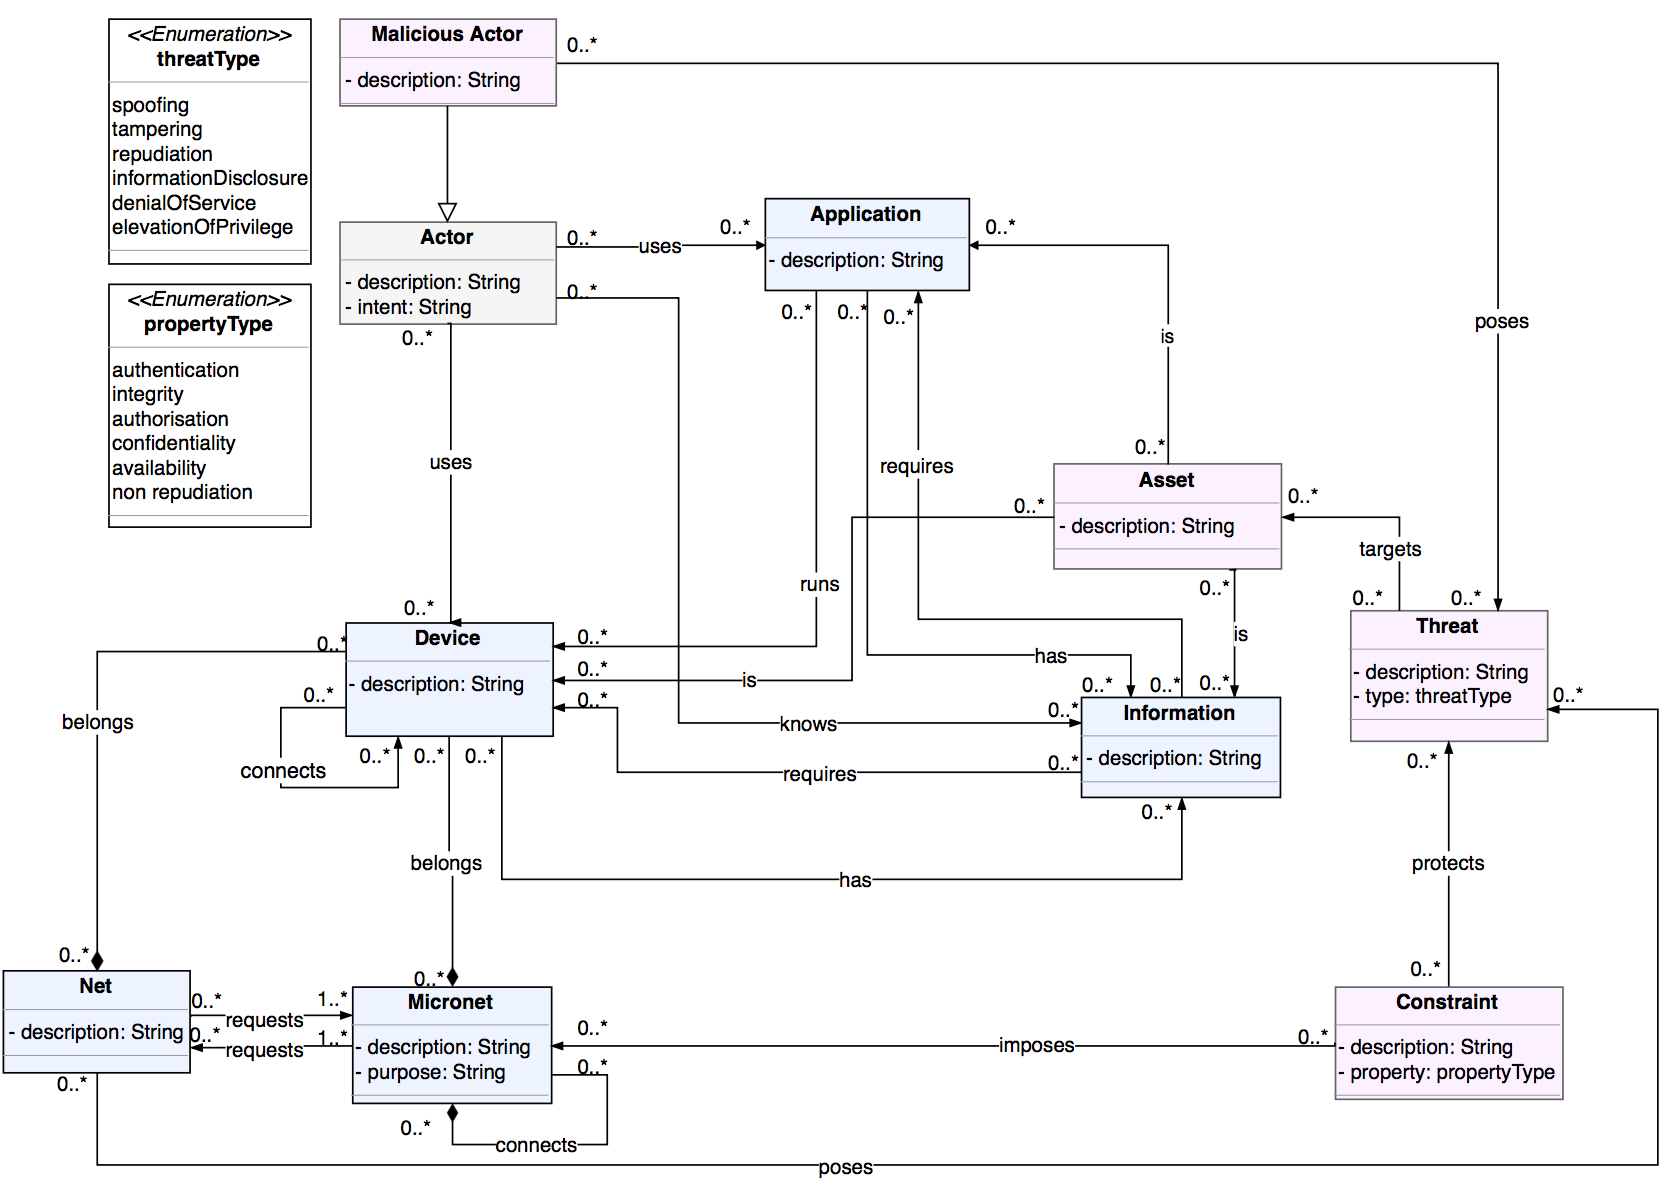
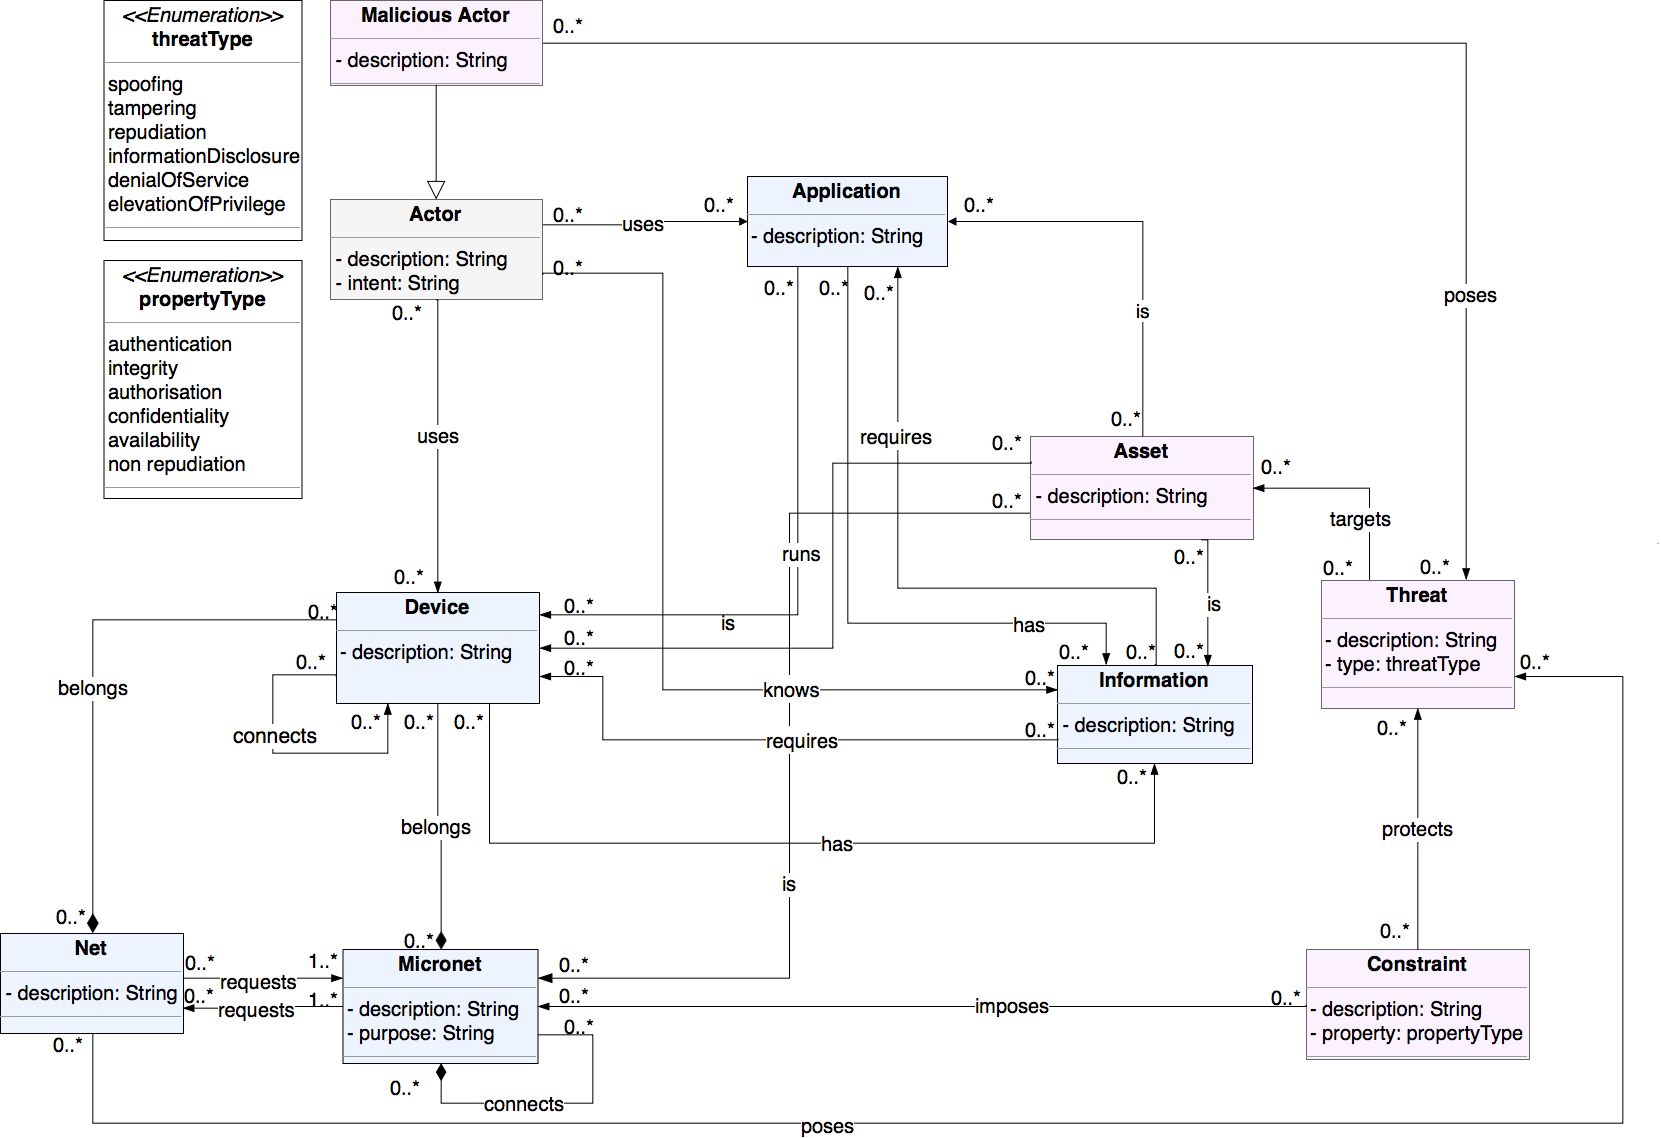
update language

diff --git a/app/src/dgn/dgnSchema.js b/app/src/dgn/dgnSchema.js
@@ -22,7 +22,14 @@ const dgnMetamodel = {
   informationArray: ['asset', 'application', 'device', 'actor'],
   actorArray: ['device', 'application', 'information'],
   maliciousActorArray: ['device', 'application', 'information', 'threat'],
-  assetArray: ['information', 'application', 'threat', 'actor', 'device'],
+  assetArray: [
+    'information',
+    'application',
+    'threat',
+    'actor',
+    'device',
+    'micronet'
+  ],
   constraintArray: ['threat', 'micronet'],
   threatArray: ['asset', 'malicious actor', 'constraint', 'net']
 }

diff --git a/app/src/dgn/addDgnEdge.js b/app/src/dgn/addDgnEdge.js
@@ -44,6 +44,9 @@ module.exports = function addComponent (cy, srcNode, trgNode) {
     case srcNodeCpt === 'asset' && trgNodeCpt === 'information':
       addEdge(cy, srcNodeId, trgNodeId, 'is')
       break
+    case srcNodeCpt === 'asset' && trgNodeCpt === 'micronet':
+      addEdge(cy, srcNodeId, trgNodeId, 'is')
+      break
     case srcNodeCpt === 'information' && trgNodeCpt === 'device':
       addEdge(cy, srcNodeId, trgNodeId, 'requires')
       break

diff --git a/app/src/imp/addImpEdge.js b/app/src/imp/addImpEdge.js
@@ -114,6 +114,9 @@ module.exports = function addComponent (cy, srcNode, trgNode) {
     case srcNodeCpt === 'asset' && trgNodeCpt === 'information':
       addEdge(cy, srcNodeId, trgNodeId, 'is')
       break
+    case srcNodeCpt === 'asset' && trgNodeCpt === 'micronet':
+      addEdge(cy, srcNodeId, trgNodeId, 'is')
+      break
     default:
       bubbleTxt(`${srcNodeCpt} → ${trgNodeCpt}\nnot allowed 😔`)
   }

diff --git a/app/src/imp/impSchema.js b/app/src/imp/impSchema.js
@@ -64,7 +64,14 @@ const impMetamodel = {
     'application',
     'threat'
   ],
-  assetArray: ['information', 'threat', 'actor', 'device', 'application'],
+  assetArray: [
+    'information',
+    'threat',
+    'actor',
+    'device',
+    'application',
+    'micronet'
+  ],
   constraintArray: ['threat', 'micronet', 'mechanism'],
   mechanismArray: ['vulnerability', 'constraint'],
   threatArray: [
